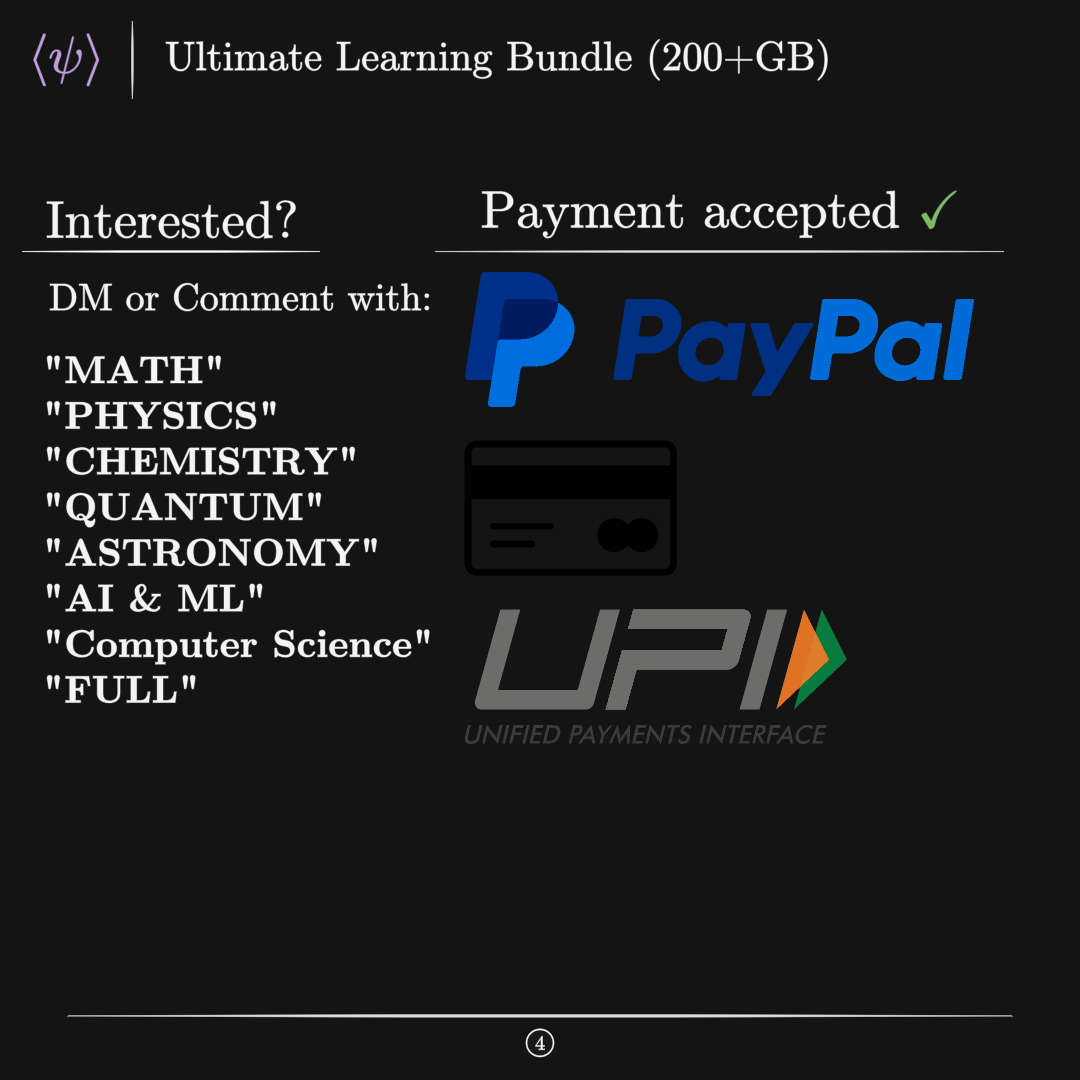
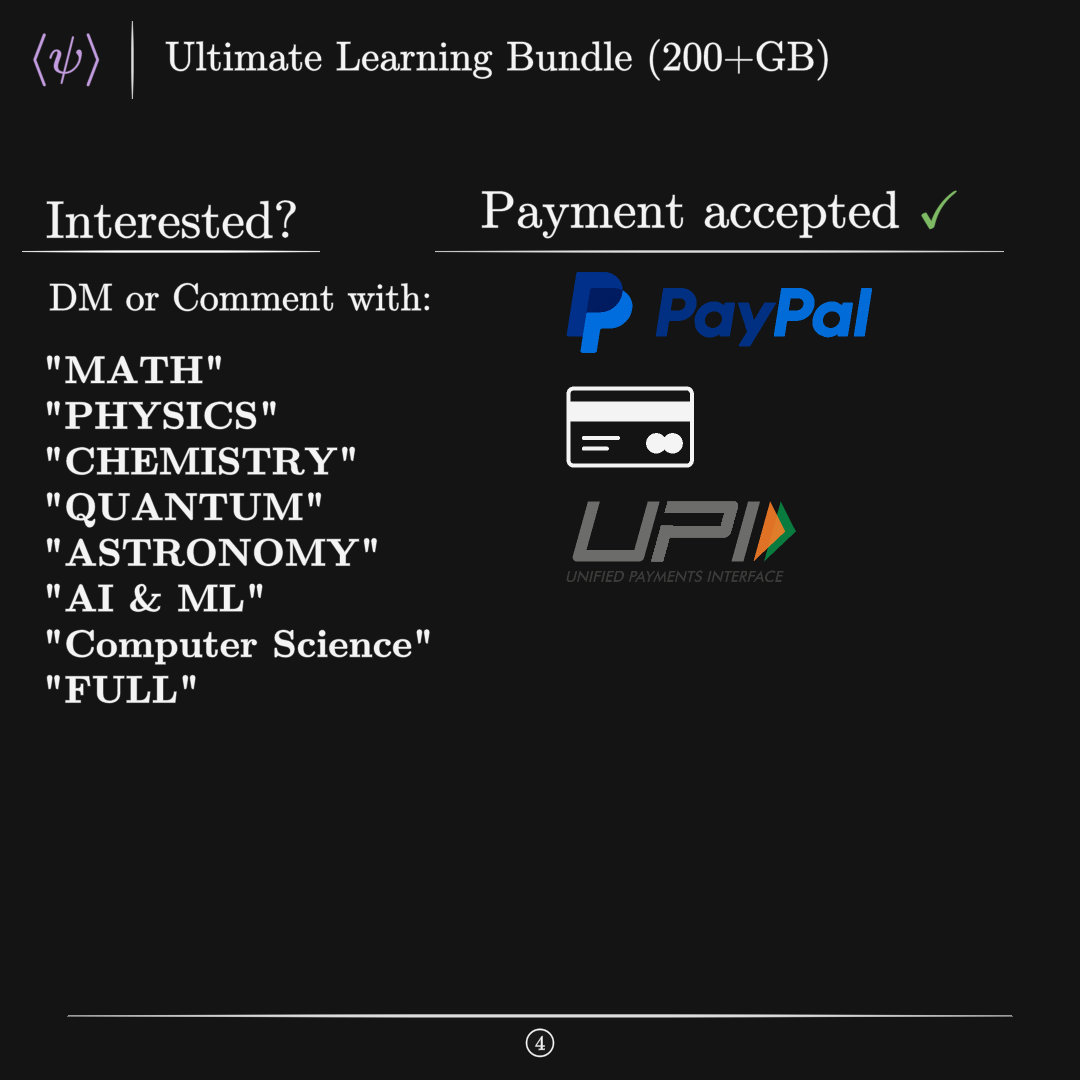
f

Changed region(s): [[0.4278, 0.2444, 0.9167, 0.7028]]

diff --git a/test.py b/test.py
@@ -184,10 +184,10 @@ class Payment(PaidTemplate):
 
         svgs = VGroup(
             SVGMobject("paypal.svg"),
-            SVGMobject("debit.svg"),
+            SVGMobject("debit.svg").set_color(WHITE),
             SVGMobject("upi.svg")
         )
-        svgs.scale(0.5)
+        svgs.scale(0.3)
         svgs.arrange(DOWN, buff=MED_SMALL_BUFF, aligned_edge=LEFT)
         svgs.next_to(payment, DOWN)
         self.add(svgs)
